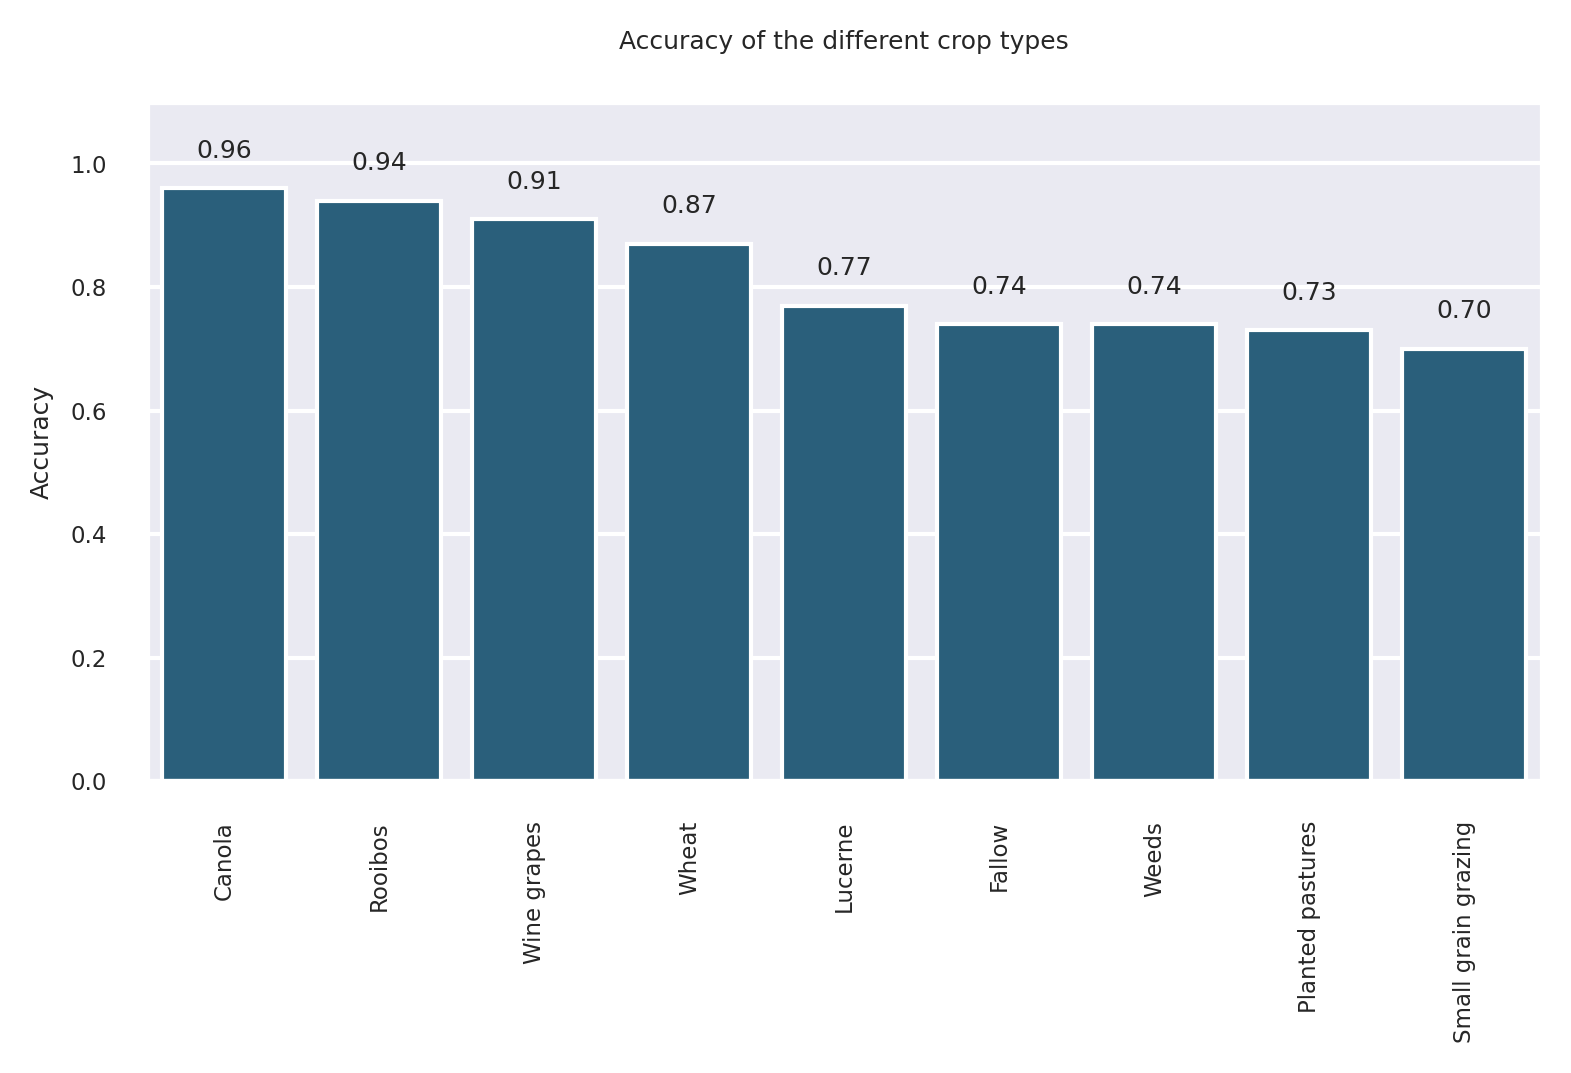
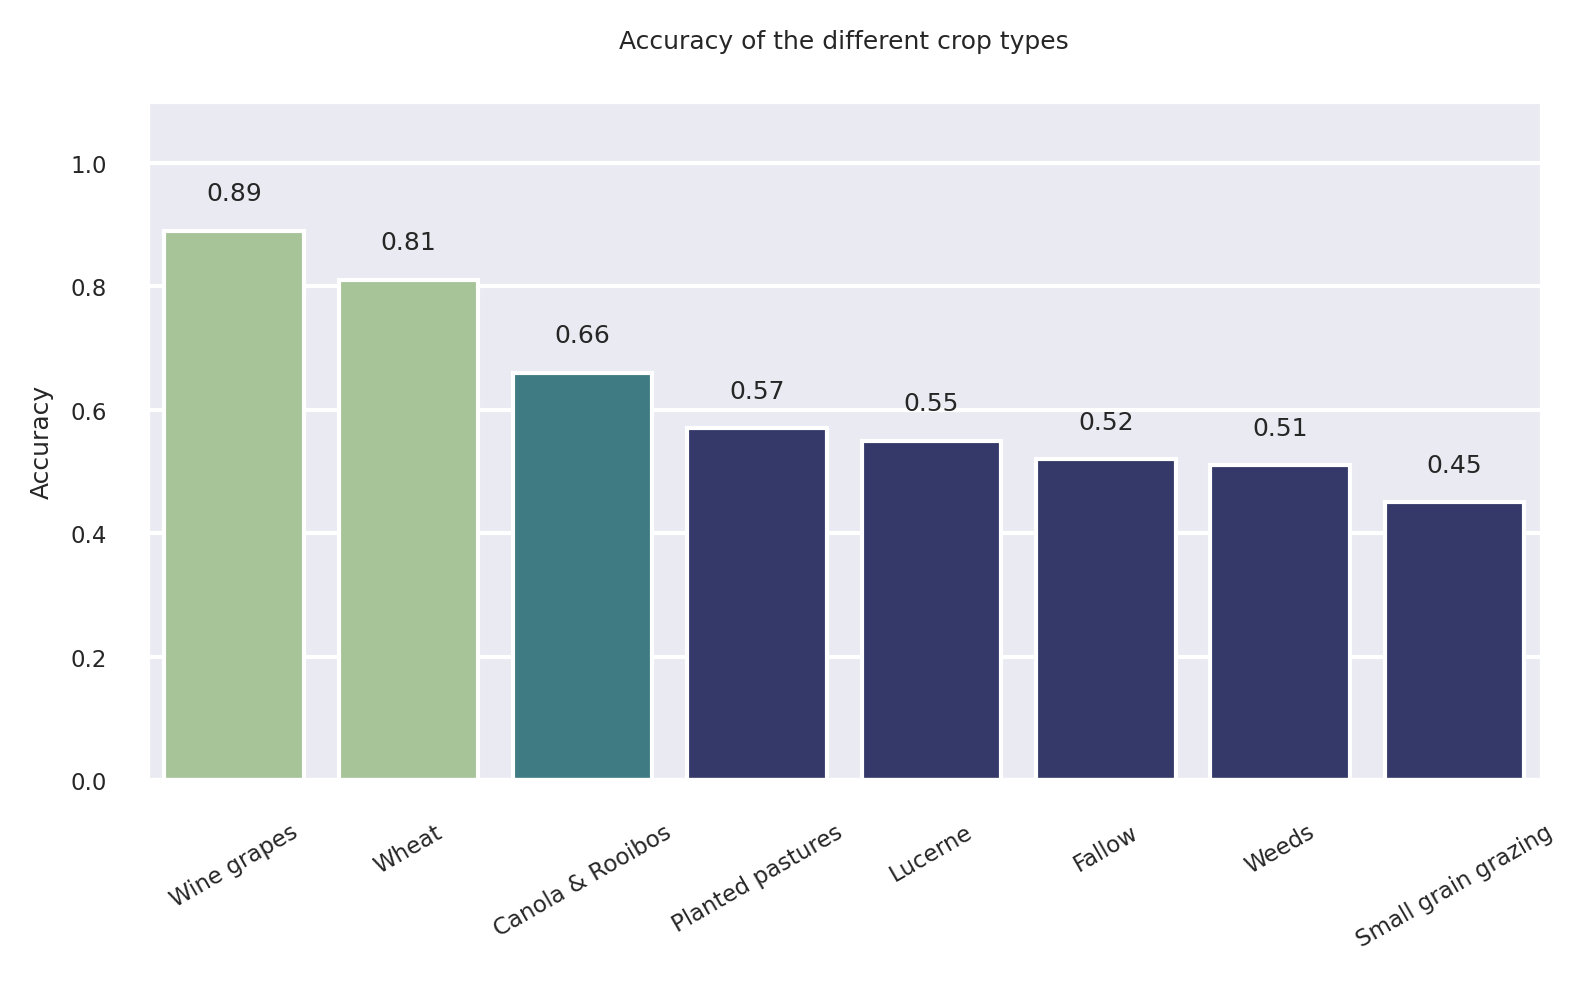
Added plots for the error analyis and updated/removed the old plots.

diff --git a/README.md b/README.md
@@ -152,7 +152,7 @@ In the training set we have skewed class proportions. In order to solve the imba
 ---
 ## Results and Conclusion
 ### Evaluation metric
-For the evaluation metric, we chose the `F1-score` as metric, since the main goal is to correctly identify the crop type of as many fields as possible. Neither false-positive (FP) nor false-negative (FN) miss-classifications are particularly good or bad, hence the harmonic mean F1. 
+For the evaluation metric, we chose the `F1-score` as metric, since the main goal is to correctly identify the crop type (class) of as many fields as possible. Neither false-positive (FP) nor false-negative (FN) miss-classifications are particularly good or bad, hence the harmonic mean F1. 
 
 ### Model performance
 For the baseline model we chose a K-Nearest Neighbors (KNN) model, as this is a simple algorithm, which is based on the assumption that similar classes will be in close proximity of each other. It can be used for both binary and multiclass classifications and is very fast and easy to implement, especially for large data sets [source](https://towardsdatascience.com/multiclass-classification-using-k-nearest-neighbours-ca5281a9ef76). Decision tree ensemble methods were chosen for the more advanced models. They performed well compared to neural networks and KNN. For the F1 score, values of 0.42 were obtained for the baseline model (KNN) on the test data, while the [extremely randomized tree](https://scikit-learn.org/stable/modules/generated/sklearn.ensemble.ExtraTreesClassifier.html) and the [XGBClassifier](https://xgboost.readthedocs.io/en/stable/#) performed better with values between 0.59 and 0.61 on the test data. However, all models showed overfitting on the training data, implying that they could be further improved by more rigorous regularization.  Since the XGBClassifier performed best (highest F1 score and lower overfitting), the error analysis is performed using the results/predictions of this model.  
@@ -160,4 +160,14 @@ For the baseline model we chose a K-Nearest Neighbors (KNN) model, as this is a 
 ![F1-score](./plots/f1_models.png)
 
 ### Error analysis
-When analyzing the errors of the XGBClassifier, we find no particularly striking misclassifications for particular classes. 
+When analyzing the errors of the XGBClassifier, we find no particularly striking misclassifications for particular classes (crop types). This can be seen in the darker colored diagonal of the confusion matrix. While we have no dark colored areas outside of this diagonal.
+
+![XGB_Confusion_Matrix](./plots/xgb_confusion_matrix.png) 
+
+Looking at the accuracy with which the individual crop types (classes) are classified, large differences become apparent. The classes grapes and wheat show a relatively high accuracy, while the other classes are not predicted very accurately. One reason for this result is probably that grapes and wheat have very characteristic textures and colors, while the rest of the crops are quite similar in this aspect.    
+
+![XGB_Label_Accuracies](./plots/xgb_accuracy_per_label.png)
+
+
+
+![XGB_Label_Area](./plots/xgb_area_per_label_stacked.png)
